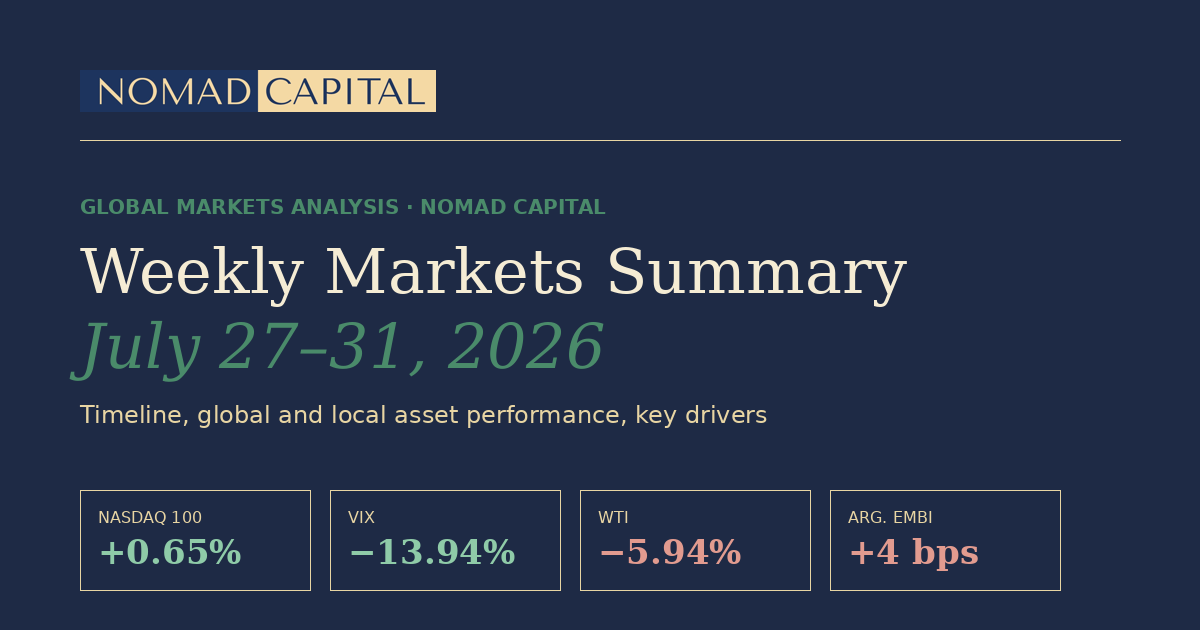
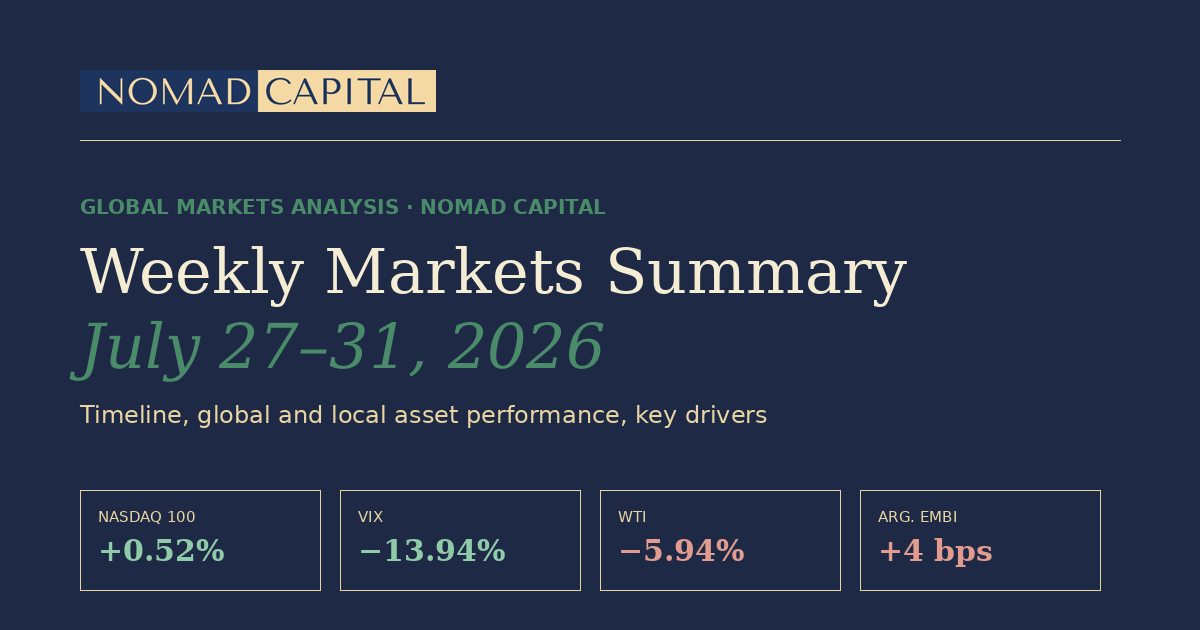
Add files via upload

diff --git a/web-nomad-bilingual/informe_semanal_27jul_31jul_2026.html b/web-nomad-bilingual/informe_semanal_27jul_31jul_2026.html
@@ -112,7 +112,7 @@ footer.dark{padding:1.8rem 1.8rem;font-size:0.64rem;color:rgba(232,213,163,0.35)
   <p class="subtitle">Nomad Capital &mdash; Capital Markets Division &middot; Julio 2026</p>
   <p class="body-dark">Semana dominada por la tensi&oacute;n entre pol&iacute;tica monetaria y datos de EE.UU.: la Fed sostuvo la tasa en 3,50%&ndash;3,75% con la divisi&oacute;n interna m&aacute;s marcada del a&ntilde;o, mientras los balances tecnol&oacute;gicos de IA mostraron una dispersi&oacute;n extrema &mdash;Microsoft sum&oacute; ~u$s490.000M de capitalizaci&oacute;n en una rueda, r&eacute;cord hist&oacute;rico, mientras Meta cay&oacute; ~9%&mdash;. En Argentina, Milei anunci&oacute; por cadena nacional la reforma de la Carta Org&aacute;nica del BCRA. El saldo: <strong style="color:var(--cream2)">Wall Street cierra julio con ganancias en la semana, aunque todav&iacute;a por debajo del m&aacute;ximo mensual marcado a comienzos de julio</strong>, el Merval acompa&ntilde;a la suba y la curva soberana argentina en d&oacute;lares muestra comportamiento mixto.</p>
   <div class="kpi-row">
-    <div class="kpi-card"><div class="kpi-label">Nasdaq 100</div><div class="kpi-value pos">+0,65%</div><div class="kpi-sub">~28.183 &rarr; ~28.365</div></div>
+    <div class="kpi-card"><div class="kpi-label">Nasdaq 100</div><div class="kpi-value pos">+0,52%</div><div class="kpi-sub">28.160,86 &rarr; 28.307,30</div></div>
     <div class="kpi-card"><div class="kpi-label">VIX</div><div class="kpi-value pos">&minus;13,94%</div><div class="kpi-sub">18,58 &rarr; 15,99</div></div>
     <div class="kpi-card"><div class="kpi-label">WTI Crude Oil</div><div class="kpi-value neg">&minus;5,94%</div><div class="kpi-sub">u$s90,12 &rarr; u$s84,77</div></div>
     <div class="kpi-card"><div class="kpi-label">EMBI Argentina</div><div class="kpi-value neg">+4 bps</div><div class="kpi-sub">437 &rarr; 441 bps</div></div>
@@ -156,7 +156,7 @@ footer.dark{padding:1.8rem 1.8rem;font-size:0.64rem;color:rgba(232,213,163,0.35)
     <thead><tr><th>Activo</th><th>Cierre 24/7</th><th>Cierre 31/7</th><th>Var. semanal</th><th>Var. mensual&sup2;</th></tr></thead>
     <tbody>
       <tr><td>S&amp;P 500</td><td>7.411,98</td><td>7.489,80</td><td class="pos">+1,05%</td><td class="pos">+0,54%</td></tr>
-      <tr><td>Nasdaq 100</td><td>~28.183</td><td>~28.365</td><td class="pos">+0,65%</td><td class="neg">&minus;3,20%</td></tr>
+      <tr><td>Nasdaq 100</td><td>28.160,86</td><td>28.307,30</td><td class="pos">+0,52%</td><td class="neg">&minus;6,61%</td></tr>
       <tr><td>Dow Jones</td><td>51.947,25</td><td>52.485,74</td><td class="pos">+1,04%</td><td class="pos">+0,32%</td></tr>
       <tr><td>VIX</td><td>18,58</td><td>15,99</td><td class="pos">&minus;13,94%</td><td class="pos">&minus;0,99%</td></tr>
       <tr><td>UST 10 a&ntilde;os</td><td>4,68%</td><td>4,74%</td><td class="neg">+6 bps</td><td class="neg">+26 bps</td></tr>
@@ -168,7 +168,7 @@ footer.dark{padding:1.8rem 1.8rem;font-size:0.64rem;color:rgba(232,213,163,0.35)
   </table>
   <div class="table-cards">
     <div class="t-card"><div class="t-name">S&amp;P 500</div><div class="t-row"><span>Cierre 24/7</span><span>7.411,98</span></div><div class="t-row"><span>Cierre 31/7</span><span>7.489,80</span></div><div class="t-row"><span>Var. semanal</span><span class="pos">+1,05%</span></div><div class="t-row"><span>Var. mensual</span><span class="pos">+0,54%</span></div></div>
-    <div class="t-card"><div class="t-name">Nasdaq 100</div><div class="t-row"><span>Cierre 24/7</span><span>~28.183</span></div><div class="t-row"><span>Cierre 31/7</span><span>~28.365</span></div><div class="t-row"><span>Var. semanal</span><span class="pos">+0,65%</span></div><div class="t-row"><span>Var. mensual</span><span class="neg">&minus;3,20%</span></div></div>
+    <div class="t-card"><div class="t-name">Nasdaq 100</div><div class="t-row"><span>Cierre 24/7</span><span>28.160,86</span></div><div class="t-row"><span>Cierre 31/7</span><span>28.307,30</span></div><div class="t-row"><span>Var. semanal</span><span class="pos">+0,52%</span></div><div class="t-row"><span>Var. mensual</span><span class="neg">&minus;6,61%</span></div></div>
     <div class="t-card"><div class="t-name">Dow Jones</div><div class="t-row"><span>Cierre 24/7</span><span>51.947,25</span></div><div class="t-row"><span>Cierre 31/7</span><span>52.485,74</span></div><div class="t-row"><span>Var. semanal</span><span class="pos">+1,04%</span></div><div class="t-row"><span>Var. mensual</span><span class="pos">+0,32%</span></div></div>
     <div class="t-card"><div class="t-name">VIX</div><div class="t-row"><span>Cierre 24/7</span><span>18,58</span></div><div class="t-row"><span>Cierre 31/7</span><span>15,99</span></div><div class="t-row"><span>Var. semanal</span><span class="pos">&minus;13,94%</span></div><div class="t-row"><span>Var. mensual</span><span class="pos">&minus;0,99%</span></div></div>
     <div class="t-card"><div class="t-name">UST 10 a&ntilde;os</div><div class="t-row"><span>Cierre 24/7</span><span>4,68%</span></div><div class="t-row"><span>Cierre 31/7</span><span>4,74%</span></div><div class="t-row"><span>Var. semanal</span><span class="neg">+6 bps</span></div><div class="t-row"><span>Var. mensual</span><span class="neg">+26 bps</span></div></div>
@@ -197,7 +197,7 @@ footer.dark{padding:1.8rem 1.8rem;font-size:0.64rem;color:rgba(232,213,163,0.35)
     <div class="t-card"><div class="t-name">USD MEP (AL30)</div><div class="t-row"><span>Cierre 24/7</span><span>$1.532,45</span></div><div class="t-row"><span>Cierre 31/7</span><span>$1.519,26</span></div><div class="t-row"><span>Var. semanal</span><span class="neg">&minus;0,79%</span></div><div class="t-row"><span>Var. mensual</span><span class="pos">&minus;0,37%</span></div></div>
   </div>
 
-  <p class="eyebrow-note">* El EMBI Argentina corresponde al &uacute;ltimo cierre oficial confirmado (jueves 30/7); JP Morgan publica el dato con rezago respecto de la rueda de Buenos Aires.<br>&sup2; Var. mensual toma como base el cierre del martes 30/6 (cierre de junio) para los activos globales con dato confirmado (S&amp;P 500, Nasdaq Composite, Dow Jones, Bitcoin); VIX, UST 10 a&ntilde;os, WTI, Oro, EMBI y los activos locales usan el cierre del jueves 2/7 como proxy del cierre de junio por proximidad de fechas.<br>Precios locales verificados en Balanz Productores &mdash; GD30D, GD35D y MEP tomados del panel &ldquo;Cambio de Precio &mdash; Semana&rdquo; de cada instrumento; Merval calculado sobre el cierre de referencia del viernes anterior.</p>
+  <p class="eyebrow-note">* El EMBI Argentina corresponde al &uacute;ltimo cierre oficial confirmado (jueves 30/7); JP Morgan publica el dato con rezago respecto de la rueda de Buenos Aires.<br>&sup2; Var. mensual toma como base el cierre del martes 30/6 (cierre de junio). Para S&amp;P 500, Nasdaq 100, Dow Jones y Bitcoin el dato es confirmado; VIX, UST 10 a&ntilde;os, WTI, Oro, EMBI y los activos locales usan el cierre del jueves 2/7 como proxy del cierre de junio por proximidad de fechas.<br>Precios locales verificados en Balanz Productores &mdash; GD30D, GD35D y MEP tomados del panel &ldquo;Cambio de Precio &mdash; Semana&rdquo; de cada instrumento; Merval calculado sobre el cierre de referencia del viernes anterior.</p>
 </section>
 
 <section class="light">

diff --git a/web-nomad-bilingual/weekly_summary_jul27_jul31_2026.html b/web-nomad-bilingual/weekly_summary_jul27_jul31_2026.html
@@ -112,7 +112,7 @@ footer.dark{padding:1.8rem 1.8rem;font-size:0.64rem;color:rgba(232,213,163,0.35)
   <p class="subtitle">Nomad Capital &mdash; Week of July 27&ndash;31, 2026</p>
   <p class="body-dark">A week defined by the tension between monetary policy and U.S. data: the Fed held rates at 3.50%&ndash;3.75% amid the sharpest internal split of the year, while AI-linked tech earnings showed extreme dispersion &mdash;Microsoft added roughly $490B in market cap in a single session, an all-time record, while Meta fell about 9%&mdash;. In Argentina, Milei announced the reform of the Central Bank's Charter in a nationally televised address. The bottom line: <strong style="color:var(--cream2)">Wall Street closes the week higher, the Merval tracks the rally, and Argentina's dollar sovereign curve shows mixed performance</strong>.</p>
   <div class="kpi-row">
-    <div class="kpi-card"><div class="kpi-label">Nasdaq 100</div><div class="kpi-value pos">+0.65%</div><div class="kpi-sub">~28,183 &rarr; ~28,365</div></div>
+    <div class="kpi-card"><div class="kpi-label">Nasdaq 100</div><div class="kpi-value pos">+0.52%</div><div class="kpi-sub">28,160.86 &rarr; 28,307.30</div></div>
     <div class="kpi-card"><div class="kpi-label">VIX</div><div class="kpi-value pos">&minus;13.94%</div><div class="kpi-sub">18.58 &rarr; 15.99</div></div>
     <div class="kpi-card"><div class="kpi-label">WTI Crude Oil</div><div class="kpi-value neg">&minus;5.94%</div><div class="kpi-sub">$90.12 &rarr; $84.77</div></div>
     <div class="kpi-card"><div class="kpi-label">Argentina EMBI</div><div class="kpi-value neg">+4 bps</div><div class="kpi-sub">437 &rarr; 441 bps</div></div>
@@ -156,7 +156,7 @@ footer.dark{padding:1.8rem 1.8rem;font-size:0.64rem;color:rgba(232,213,163,0.35)
     <thead><tr><th>Asset</th><th>Close 7/24</th><th>Close 7/31</th><th>Weekly chg.</th><th>Monthly chg.&sup2;</th></tr></thead>
     <tbody>
       <tr><td>S&amp;P 500</td><td>7,411.98</td><td>7,489.80</td><td class="pos">+1.05%</td><td class="pos">+0.54%</td></tr>
-      <tr><td>Nasdaq 100</td><td>~28,183</td><td>~28,365</td><td class="pos">+0.65%</td><td class="neg">&minus;3.20%</td></tr>
+      <tr><td>Nasdaq 100</td><td>28,160.86</td><td>28,307.30</td><td class="pos">+0.52%</td><td class="neg">&minus;6.61%</td></tr>
       <tr><td>Dow Jones</td><td>51,947.25</td><td>52,485.74</td><td class="pos">+1.04%</td><td class="pos">+0.32%</td></tr>
       <tr><td>VIX</td><td>18.58</td><td>15.99</td><td class="pos">&minus;13.94%</td><td class="pos">&minus;0.99%</td></tr>
       <tr><td>UST 10-year</td><td>4.68%</td><td>4.74%</td><td class="neg">+6 bps</td><td class="neg">+26 bps</td></tr>
@@ -168,7 +168,7 @@ footer.dark{padding:1.8rem 1.8rem;font-size:0.64rem;color:rgba(232,213,163,0.35)
   </table>
   <div class="table-cards">
     <div class="t-card"><div class="t-name">S&amp;P 500</div><div class="t-row"><span>Close 7/24</span><span>7,411.98</span></div><div class="t-row"><span>Close 7/31</span><span>7,489.80</span></div><div class="t-row"><span>Weekly</span><span class="pos">+1.05%</span></div><div class="t-row"><span>Monthly</span><span class="pos">+0.54%</span></div></div>
-    <div class="t-card"><div class="t-name">Nasdaq 100</div><div class="t-row"><span>Close 7/24</span><span>~28,183</span></div><div class="t-row"><span>Close 7/31</span><span>~28,365</span></div><div class="t-row"><span>Weekly</span><span class="pos">+0.65%</span></div><div class="t-row"><span>Monthly</span><span class="neg">&minus;3.20%</span></div></div>
+    <div class="t-card"><div class="t-name">Nasdaq 100</div><div class="t-row"><span>Close 7/24</span><span>28,160.86</span></div><div class="t-row"><span>Close 7/31</span><span>28,307.30</span></div><div class="t-row"><span>Weekly</span><span class="pos">+0.52%</span></div><div class="t-row"><span>Monthly</span><span class="neg">&minus;6.61%</span></div></div>
     <div class="t-card"><div class="t-name">Dow Jones</div><div class="t-row"><span>Close 7/24</span><span>51,947.25</span></div><div class="t-row"><span>Close 7/31</span><span>52,485.74</span></div><div class="t-row"><span>Weekly</span><span class="pos">+1.04%</span></div><div class="t-row"><span>Monthly</span><span class="pos">+0.32%</span></div></div>
     <div class="t-card"><div class="t-name">VIX</div><div class="t-row"><span>Close 7/24</span><span>18.58</span></div><div class="t-row"><span>Close 7/31</span><span>15.99</span></div><div class="t-row"><span>Weekly</span><span class="pos">&minus;13.94%</span></div><div class="t-row"><span>Monthly</span><span class="pos">&minus;0.99%</span></div></div>
     <div class="t-card"><div class="t-name">UST 10-year</div><div class="t-row"><span>Close 7/24</span><span>4.68%</span></div><div class="t-row"><span>Close 7/31</span><span>4.74%</span></div><div class="t-row"><span>Weekly</span><span class="neg">+6 bps</span></div><div class="t-row"><span>Monthly</span><span class="neg">+26 bps</span></div></div>
@@ -197,7 +197,7 @@ footer.dark{padding:1.8rem 1.8rem;font-size:0.64rem;color:rgba(232,213,163,0.35)
     <div class="t-card"><div class="t-name">USD MEP (AL30)</div><div class="t-row"><span>Close 7/24</span><span>$1,532.45</span></div><div class="t-row"><span>Close 7/31</span><span>$1,519.26</span></div><div class="t-row"><span>Weekly</span><span class="neg">&minus;0.79%</span></div><div class="t-row"><span>Monthly</span><span class="pos">&minus;0.37%</span></div></div>
   </div>
 
-  <p class="eyebrow-note">* Argentina's EMBI reflects the last confirmed official close (Thursday, 7/30); JP Morgan publishes this figure with a lag relative to the Buenos Aires session.<br>&sup2; Monthly change is based on the close of Tuesday, June 30 (month-end) for global assets with a confirmed figure (S&amp;P 500, Nasdaq Composite, Dow Jones, Bitcoin); VIX, UST 10-year, WTI, Gold, EMBI and local assets use the close of Thursday, July 2 as a proxy for the June close given date proximity.<br>Local prices verified in Balanz Productores &mdash; GD30D, GD35D and MEP taken from the &ldquo;Price Change &mdash; Week&rdquo; panel of each instrument; Merval calculated against the prior Friday's reference close.</p>
+  <p class="eyebrow-note">* Argentina's EMBI reflects the last confirmed official close (Thursday, 7/30); JP Morgan publishes this figure with a lag relative to the Buenos Aires session.<br>&sup2; Monthly change is based on the close of Tuesday, June 30 (month-end). For S&amp;P 500, Nasdaq 100, Dow Jones and Bitcoin the figure is confirmed; VIX, UST 10-year, WTI, Gold, EMBI and local assets use the close of Thursday, July 2 as a proxy for the June close given date proximity.<br>Local prices verified in Balanz Productores &mdash; GD30D, GD35D and MEP taken from the &ldquo;Price Change &mdash; Week&rdquo; panel of each instrument; Merval calculated against the prior Friday's reference close.</p>
 </section>
 
 <section class="light">
